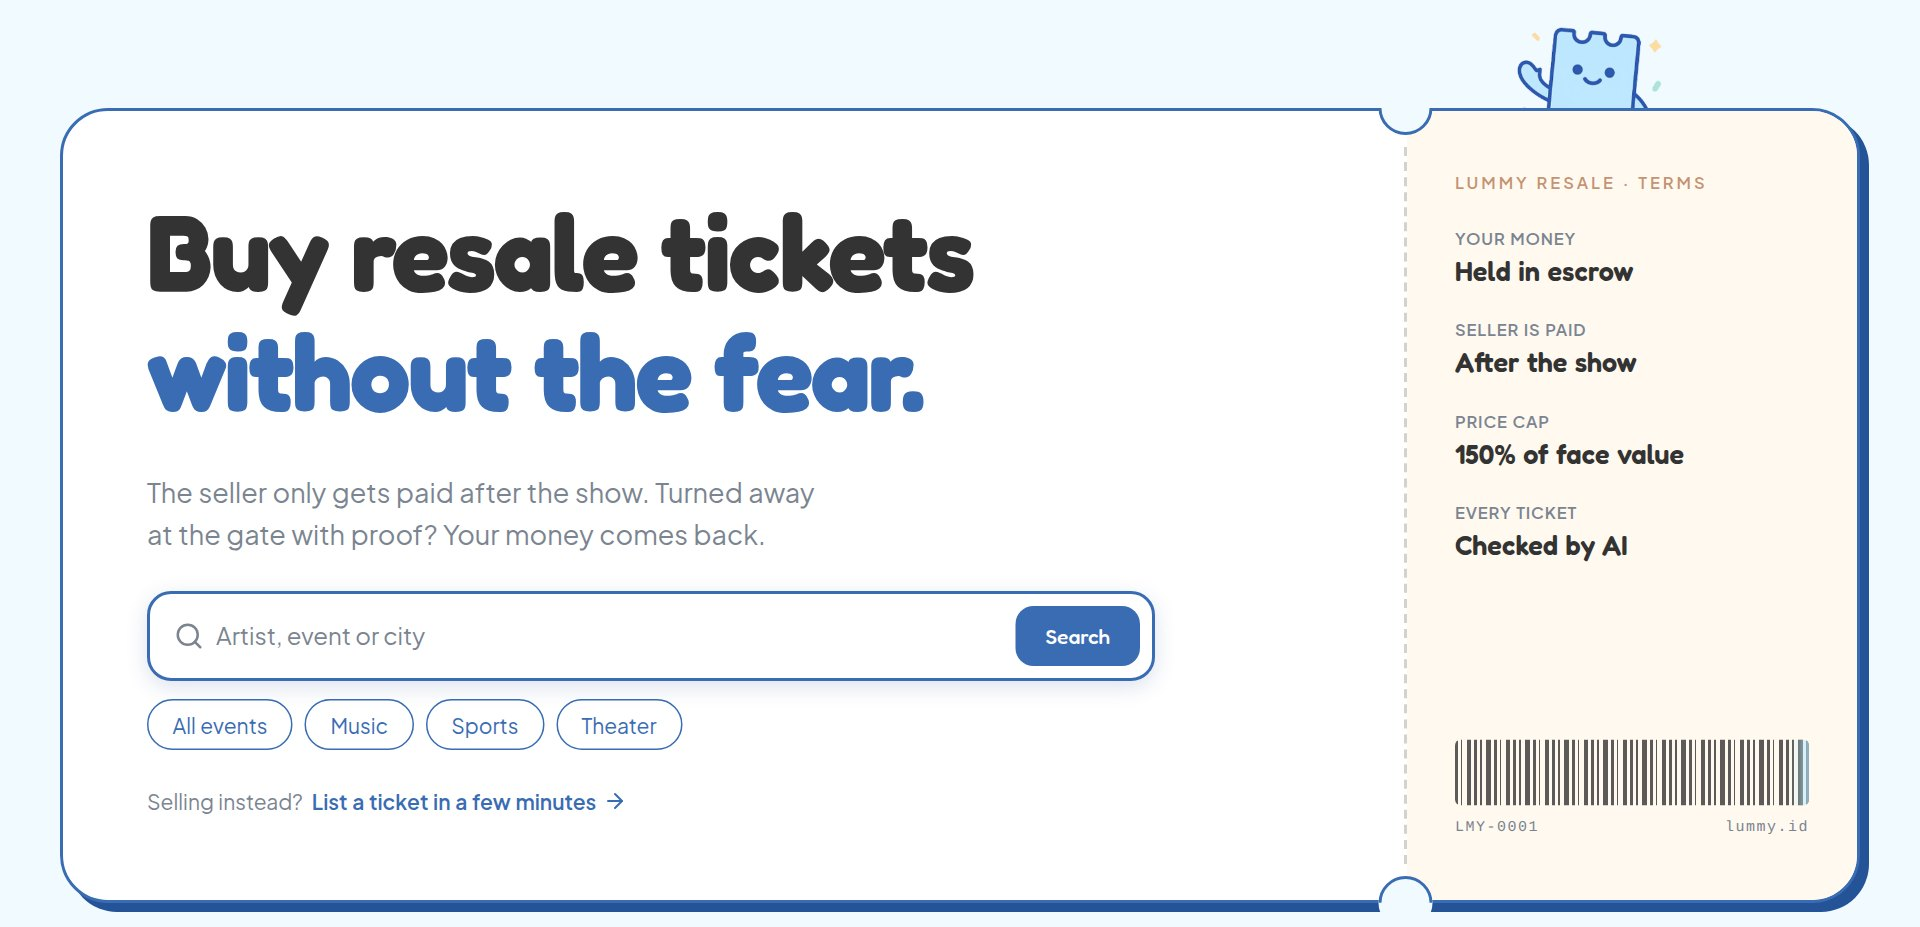
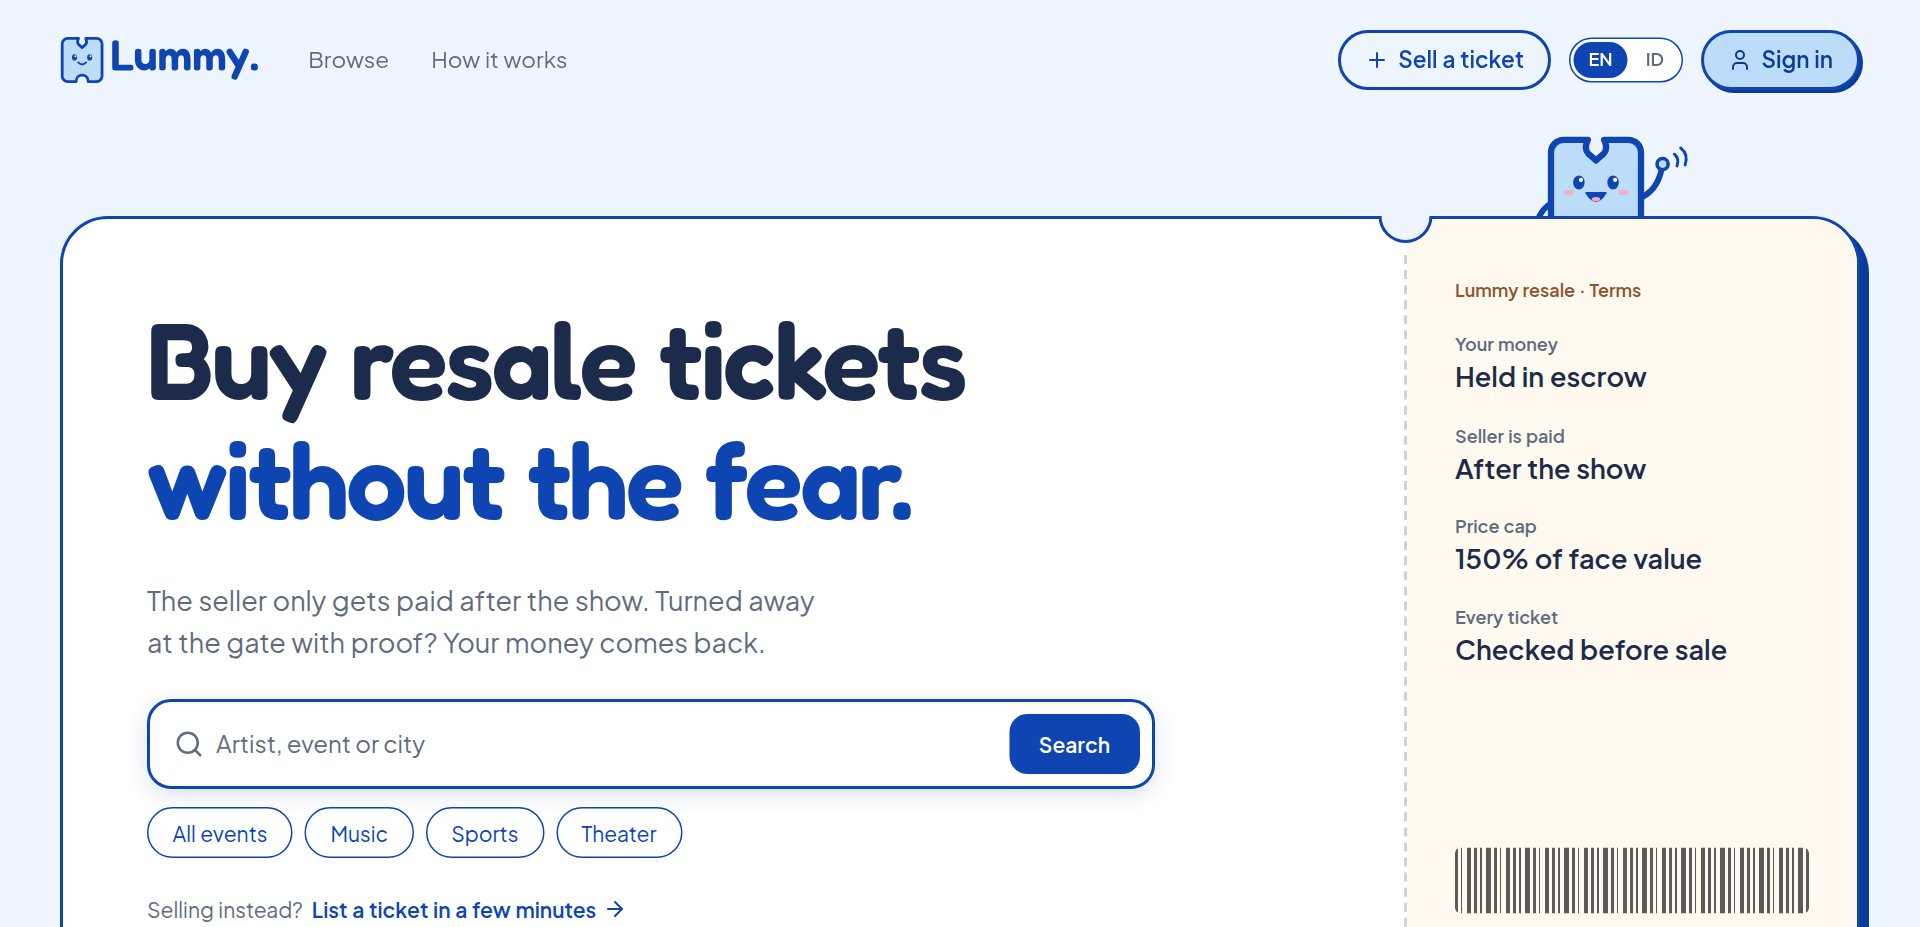
profile: brand guideline 1.0, and the state of Lummy in October 2026
- The logo is the new mark (brand guideline 1.0, 19 Oct), as SVG, with
  the white version for GitHub's dark theme. The old logo.png goes.
- The hero is a fresh shot of lummy.id after the brand update.
- What changed since the last update is written as it is now: real
  ticket PDFs are checked, Claude reads the printed details, QRIS runs
  through Xendit in test mode, the draft letter of authorisation is
  signed over a paper stamp, and LummyLedger records each QRIS order
  next to LummyEscrow. Contract tests are 110.
- Removed what was no longer true: payment "simulated until the
  provider is connected", a vision model as a second check, the letter
  generated with an e-stamp, and the checks running on sample tickets
  only. USDC checkout from the buyer's own wallet is named as the
  Founder House work, not as done.
- The public contact is team@lummy.id.

diff --git a/profile/README.md b/profile/README.md
@@ -1,14 +1,16 @@
 <div align="center">
 
-<img src="./logo.png" alt="Lummy Ticket" width="300">
+<picture>
+  <source media="(prefers-color-scheme: dark)" srcset="./logo-white.svg">
+  <img src="./logo.svg" alt="Lummy" width="300">
+</picture>
 
-**Escrow-backed resale for Indonesian concert tickets.**
+**Escrow-backed resale for concert tickets in Indonesia.**
 
-Buyer money is locked by a smart contract on Arbitrum and released to the seller after the event.
-Tickets here are name-locked, so we generate the authorization letter too.
-No wallet, no seed phrase, no gas fee.
+The buyer's money is held until 48 hours after the show, and every ticket is checked before it goes on sale.
+Sign in with email: no wallet, no seed phrase, no gas fee.
 
-[<kbd> <br> Live demo &nbsp;→ <br> </kbd>](https://lummy.id)
+[<kbd> <br> Live site &nbsp;→ <br> </kbd>](https://lummy.id)
 &nbsp;
 [<kbd> <br> How it works &nbsp;→ <br> </kbd>](https://lummy.id/how-it-works)
 
@@ -31,9 +33,7 @@ No wallet, no seed phrase, no gas fee.
 
 Buyers pay first, then get ghosted, handed a fake ticket, or one that has already been scanned. Deals happen in WhatsApp groups and X replies with nobody in the middle. After Coldplay's 2023 show in Jakarta, ticket-fraud victims reported losses of up to Rp1.3 billion to the police ([Kompas TV](https://www.kompas.tv/nasional/461179/korban-penipuan-tiket-konser-coldplay-lapor-polisi-kerugian-hingga-rp1-3-miliar)), and the trade ministry questioned the promoter over consumer ticket complaints ([Bisnis.com](https://ekonomi.bisnis.com/read/20231203/12/1720382/kemendag-cecar-promotor-soal-aduan-tiket-konser-coldplay-rugikan-konsumen)).
 
-What makes Indonesia different is that tickets are **name-locked**. The QR is exchanged for a wristband against a government ID at the gate, so a ticket cannot simply change hands. A legal transfer needs an authorization letter, an ID copy, and an e-stamp, and today people assemble that by hand in a group chat.
-
-That friction is why nobody has won this category locally. It is also the moat: automate the paperwork and you own the trust layer.
+Many Indonesian tickets are also **name-locked**. At the gate, the QR is exchanged for a wristband against a government ID, so a ticket cannot simply change hands. Where the organiser allows a transfer, it takes a letter of authorisation signed over a stamp duty seal (meterai) and a copy of the seller's ID, and today people put that together by hand in a group chat. That paperwork is part of why resale stays in chats, and part of what a trusted middle can take off people's hands.
 
 ## How it works
 
@@ -41,63 +41,76 @@ That friction is why nobody has won this category locally. It is also the moat: 
 
 ```mermaid
 flowchart LR
-    S["Seller lists<br/>a ticket"] --> AI["AI screens it<br/>forgery + duplicate barcode"]
-    AI --> P["Buyer pays<br/>email login"]
-    P --> E["Escrow holds<br/>the money"]
-    E --> Q{"Event<br/>ends"}
-    Q -->|"no dispute"| R["Seller<br/>paid"]
-    Q -->|"dispute"| F["Buyer<br/>refunded"]
+    S["Seller uploads<br/>the ticket PDF"] --> C["Checked<br/>barcodes, PDF structure,<br/>printed details"]
+    C --> P["Buyer pays<br/>email login"]
+    P --> E["Money held until<br/>48 h after the show"]
+    E --> Q{"Claim<br/>with proof?"}
+    Q -->|"no"| R["Seller<br/>paid"]
+    Q -->|"yes"| D["A person<br/>decides"]
+    D --> F["Refund or<br/>payout"]
 ```
 
-The seller cannot take the money and disappear, because the money was never theirs to take. If nobody raises a problem within 48 hours of the event ending, the seller is paid automatically. Resale is capped at 150% of face value, so scalping does not pay either.
+The seller is only paid after the show, so there is nothing to take and disappear with. If no claim stands within 48 hours of the show ending, the payout happens on its own. A buyer turned away at the gate with proof gets the money back, and a seller whose ticket fails loses the sale and pays a 40% penalty, so selling a bad ticket never pays. Resale is capped at 150% of face value.
 
 ### The tickets
 
-Every listing is checked before it can go on sale:
+Every listing is checked before it goes on sale:
 
-- **Autofill.** The PDF is parsed into structured fields, so listing takes seconds instead of manual typing.
-- **Duplicate barcode.** The barcode is decoded, normalised, and hashed, then matched against every other listing. An already-sold ticket is blocked outright, and the escrow contract itself rejects a ticket commitment it has seen before.
-- **Forgery score.** PDF structure forensics look for edit traces, with a vision model as a second layer.
-
-The prototype runs these checks on sample tickets while the pipeline for real PDFs is being connected. The duplicate-commitment check inside the contract already runs on testnet.
+- **Barcodes.** Every barcode in the PDF is read, normalised and hashed with a secret key, then matched against every live listing. A barcode already on sale is blocked outright, and the escrow contract refuses a commitment it already holds.
+- **PDF structure.** Forensics look for signs of editing, such as the trace a PDF editor leaves. A flagged ticket waits for a person: the score is a signal for a human, not a verdict.
+- **Printed details.** Claude, Anthropic's model, reads the ticket's text after names, numbers and codes are taken out. It fills in the show and category, reads the seat, and reads the ticket again at publish to cross-check what the seller entered.
+- **Handover papers.** For shows that check names, the buyer and the seller each download a draft letter of authorisation filled in from the order. The seller signs it over a paper stamp; e-signature and e-stamp through a licensed provider come later.
 
 > [!NOTE]
-> What we do not claim: the forgery score is a review signal, not a gate, and a cleanly edited fake can still pass it. Without organizer integration our guarantee is that **your money comes back**, not that you are guaranteed entry. What actually protects the buyer is the escrow and the authorization letter.
+> What we do not claim: the checks catch duplicates and edits, not every cleanly made fake. Without the organiser's own data, our promise is that **your money comes back**, not that you are guaranteed entry. Payments run in test mode until our company is registered with the payment provider.
+
+## Two payment rails, one public record
+
+Crypto may not be used as payment in Indonesia, so for shows there, buyers pay rupiah by QRIS through a licensed payment provider (Xendit, in test mode for now). The provider holds the money, and a contract on Arbitrum records each order's life. For shows abroad, the buyer's Circle USDC goes into an escrow contract that holds it per listing until the window after the show closes. Escrow cycles have run on testnet with a simulated buyer; checkout from the buyer's own wallet is what we are building at Founder House.
+
+| Contract | On Arbitrum Sepolia, source verified | What it does |
+|---|---|---|
+| `LummyEscrow` | [`0x6830…25Dd`](https://sepolia.arbiscan.io/address/0x6830Db86283157E4cB80b0615d4c51381A0C25Dd#code) | Holds USDC per listing, then releases it to the seller, refunds the buyer, or splits it on a ruling. Buyers sign; the platform sends the transaction and pays the gas |
+| `LummyLedger` | [`0xe454…8b0E`](https://sepolia.arbiscan.io/address/0xe454cbc81916E9bE1e6A768715134568FCEE8b0E#code) | Records each QRIS order: paid, claimed, ruled, paid out, refunded |
+
+In the escrow, once the window after a show closes without a dispute, anyone can release the seller's payout, even with our backend down. The contract takes no fee and has no way to sweep funds: money only goes to the listing's buyer or seller.
 
 ## Every step on chain, in plain words
 
-An escrow's history is read straight from the contract's events on Arbitrum, not from our database, and shown as plain sentences: money locked, handover recorded, claim filed, paid out. Each step links to its transaction as proof. Anyone can open an escrow's public proof page without an account, and the page holds no personal data. [See one that settled on Arbitrum Sepolia](https://lummy.id/proof/0xc9b869a2c8bba81a4e564ea2126c0651ecef9ddd612d94bd8818cca1f20666bc).
+An order's history is read straight from the contract's events on Arbitrum, not from our database, and shown as plain sentences: paid, handover recorded, claim filed, paid out. Each step links to its transaction as proof. Anyone can open an order's public proof page without an account, and the page holds no personal data. [See one that settled on Arbitrum Sepolia](https://lummy.id/proof/0xc9b869a2c8bba81a4e564ea2126c0651ecef9ddd612d94bd8818cca1f20666bc).
 
 ## Why escrow, and why Arbitrum
 
 We spent a year on this problem before settling on the product. Our first build was full on-chain ticketing, and it taught us two things. Visible Web3 stops ordinary fans: wallets, gas fees, and signing pop-ups lost people who just wanted a ticket. And a full ticketing platform was far bigger than the problem fans actually have, which is getting cheated when they buy from a stranger.
 
-So we kept blockchain in exactly one place: holding the money. For a sale between two strangers, a public contract beats our own bank account, because its rules and its history are open and there are no chargebacks. We call it consumer escrow: the money is held by a contract and released by what happens at the gate, for buyers who never see a wallet.
+So we kept blockchain in exactly one place: the money. For a sale between two strangers, a public contract beats our own word, because its rules and its history are open. We call it consumer escrow: the money is held until the show is over and released by what happens at the gate, for buyers who never see a wallet.
 
-The contract runs on Arbitrum, an Ethereum L2, so it settles to Ethereum and holds USDC issued by Circle. Users sign in with email; the platform submits the transactions and pays the gas.
+The contracts run on Arbitrum, an Ethereum L2, so they settle to Ethereum, and the escrow holds USDC issued by Circle. Users sign in with email; the platform submits the transactions and pays the gas.
 
 ## Why now
 
 - **Live events are booming** in Indonesia post-2023, with K-pop tours and international festivals entering the market.
-- **QRIS is everywhere**, so a mainstream payment rail finally exists that needs no crypto on-ramp.
-- **Indonesia's data-protection law (UU PDP)** is pushing the market away from photocopied IDs and toward verified identity, which is the model we designed for.
+- **QRIS is everywhere**, so a mainstream payment rail exists that needs no crypto on-ramp.
+- **Indonesia's data-protection law (UU PDP)** is pushing the market away from photocopied IDs and toward verified identity.
 
-## Where we are
+## Where we are (October 2026)
 
-- **Live prototype** at [lummy.id](https://lummy.id): email sign-in, and buyer, seller, and admin flows backed by a real database, including claims where the seller gets a right of reply, in English and Indonesian. Payment is simulated until the payment provider is connected.
-- **Escrow contract** on Arbitrum: 81 tests and an invariant campaign of 640,000 random actions. Once the window after an event closes without a dispute, nobody can stop the seller's payout, including us. [Deployed on Arbitrum Sepolia](https://sepolia.arbiscan.io/address/0x6830Db86283157E4cB80b0615d4c51381A0C25Dd) with Circle USDC, where release, refund, and dispute have all run on chain.
-- **Public proof pages** for every on-chain escrow, built from contract events.
-- **Production path in Indonesia**: crypto is not legal tender there, so users will pay in rupiah through QRIS, a licensed payment provider holds the funds, and the chain serves as the escrow ledger.
+- **Live at [lummy.id](https://lummy.id):** email sign-in; buyer, seller and staff flows on a real database; claims with photo evidence the server reads; gate passes scanned at the door; cancelled and postponed shows; English and Indonesian.
+- **Real ticket PDFs** have been checked since 1 October, and read by Claude since 20 October.
+- **QRIS through Xendit** in test mode since 8 October. Real money waits for our company registration and the provider's business verification.
+- **Contracts:** 110 Foundry tests, fuzzing and invariant runs included.
+- **Beta** with real accounts, 19 to 31 October.
+- **Arbitrum Founder House**, Singapore, 23 to 25 October: building USDC checkout from the buyer's own wallet for shows abroad.
 
 ## Stack
 
 | Layer | What we build with |
 |---|---|
 | **App** | Next.js and TypeScript on Vercel. Supabase for Postgres, auth, storage, and row-level security |
-| **Chain** | Solidity and Foundry. Escrow on Arbitrum, an Ethereum L2. Deposits in Circle USDC through ERC-3009, gas paid by the platform |
-| **AI** | PDF structure forensics, barcode decoding with hash-based dedup, forgery scoring. The prototype runs them on sample tickets |
-| **Identity** | Planned: e-KYC, e-signature, and e-stamp through a licensed Indonesian PSrE, so raw ID images never sit with us |
-| **Money** | Planned: QRIS through a licensed payment provider. In production the provider holds the funds, never the chain |
+| **Chain** | Solidity and Foundry on Arbitrum. Circle USDC through ERC-3009 and EIP-712 signatures, gas paid by the platform |
+| **Ticket checks** | Barcode decoding with keyed-hash dedup, PDF structure forensics, Claude reading the printed details |
+| **Money** | QRIS through Xendit, which holds the funds; the chain keeps the record |
+| **Identity** | Planned: e-KYC, e-signature, and e-stamp through a licensed Indonesian provider (PSrE), so raw ID images never sit with us |
 
 ## Team
 
@@ -107,4 +120,4 @@ Luthfi Hadi, CTO · [@luthfidi](https://github.com/luthfidi) · [LinkedIn](https
 
 Joanita Timbin Panggalo, COO · [LinkedIn](https://www.linkedin.com/in/joanitatimbin/)
 
-<sub>Jakarta, Indonesia · lummyticket@gmail.com · [Instagram](https://instagram.com/lummy.ticket) · [X](https://x.com/lummy_ticket) · [LinkedIn](https://linkedin.com/company/lummy-ticket)</sub>
+<sub>Jakarta, Indonesia · team@lummy.id · [Instagram](https://instagram.com/lummy.ticket) · [X](https://x.com/lummy_ticket) · [LinkedIn](https://linkedin.com/company/lummy-ticket)</sub>
